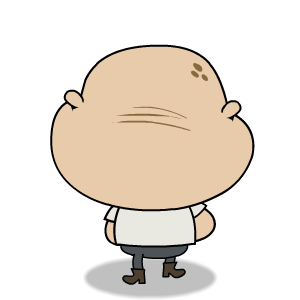
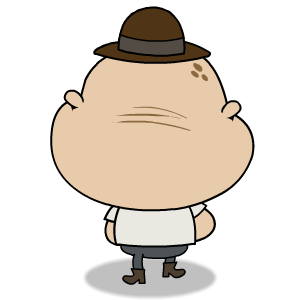
More guys, needs one more bug fix

Changed region(s): [[0.3, 0.0, 0.72, 0.24]]

diff --git a/teaorbit/static/scripts/network.js b/teaorbit/static/scripts/network.js
@@ -27,16 +27,16 @@ function Networking(game) {
             // update positions of existing players
             $.each(state.players, function(session, player) {
                 if(session != window.session_id) {
+                    var has_hat = 0 | (hat_owner == session);
                     if(session in that.game.other_dudes && that.game.other_dudes[session]) {
-                        var has_hat = (hat_owner == session);
-                        that.game.update_dude(that.game.other_dudes[session], player.position.x, player.position.y, player.movement.dx, player.movement.dy, has_hat);
+                        that.game.update_dude(that.game.other_dudes[session], player.position.x, player.position.y, player.movement.dx, player.movement.dy, has_hat, player.character);
                     } else {
-                        var min = 1;
-                        var max = 3;
-                        var random = Math.floor(Math.random() * (max - min + 1)) + min;
-                        that.game.other_dudes[session] = new dude(session, 0, 0, 0, 0, that.game.move_speed, 0, random);
+                        that.game.other_dudes[session] = new dude(session, 0, 0, 0, 0, that.game.move_speed, 0, player.character);
                         console.log('Added player ' + session);
                     }
+                }
+                else {
+                    that.game.update_dude(that.game.your_dude, player.position.x, player.position.y, player.movement.dx, player.movement.dy, has_hat, player.character);
                 }
             });
 

diff --git a/teaorbit/static/scripts/animations.js b/teaorbit/static/scripts/animations.js
@@ -148,6 +148,14 @@ function dude(player_id, xpos, ypos, dx, dy, move_speed, has_hat, guy) {
         this.has_hat = has_hat;
     }
 
+    this.set_guy = function(guy) {
+        this.guy = guy;
+    }
+
+    this.get_guy = function() {
+        return this.guy;
+    }
+
 /*
     talk = function( ctx, width, height, text ) {
         var x = xpos + dude_size + 5;
@@ -244,7 +252,7 @@ function gameCanvas(jq_elem, xpos, ypos, move_speed, max_x, max_y) {
         this.draw_background();
 
         // Update player
-        this.your_dude = this.update_dude(this.your_dude, this.xpos, this.ypos, this.dx, this.dy, this.your_dude.get_hat_status());
+        this.your_dude = this.update_dude(this.your_dude, this.xpos, this.ypos, this.dx, this.dy, this.your_dude.get_hat_status(), this.your_dude.get_guy());
 
         // Update and draw other dudes
         $.each(this.other_dudes, function(session_id, dude) {
@@ -307,10 +315,11 @@ function gameCanvas(jq_elem, xpos, ypos, move_speed, max_x, max_y) {
         }
     }
 
-    this.update_dude = function(dude, xpos, ypos, dx, dy, has_hat) {
+    this.update_dude = function(dude, xpos, ypos, dx, dy, has_hat, guy) {
         dude.set_position(xpos, ypos);
         dude.set_movement(dx, dy);
         dude.set_hat_status(has_hat);
+        dude.set_guy(guy);
 
         return dude;
     }

diff --git a/teaorbit/templates/wearahat/index.html b/teaorbit/templates/wearahat/index.html
@@ -13,16 +13,16 @@
         <script type="text/javascript" charset="utf-8" src="{{ STATIC_URL }}scripts/sockjs.min.js"></script>
         <script type="text/javascript" charset="utf-8" src="{{ STATIC_URL }}scripts/network.js"></script>
         <script type="text/javascript">
-            var canvas_jq, canvas, ctx, moveID, max_height, max_width, your_dude, other_dudes;
+            var canvas, networking;
 
             $(document).ready( function () {
                 $('#hat-game').css('min-height', Math.min($(window).innerHeight(), 1250));
                 $('#hat-game').css('min-width', Math.min($(window).innerWidth(), 1750));
                 
                 canvas = new gameCanvas($('#hat-game'), 0, 0, 10, 1000, 1000);
-                networking = new Networking(canvas);
 
                 $('#game_background').load( function() {
+                    networking = new Networking(canvas);
                     canvas.init();
                     canvas.start();
                 });

diff --git a/teaorbit/updates.py b/teaorbit/updates.py
@@ -30,7 +30,9 @@ class Connection(SockJSConnection):
             y = message['body']['y']
             dx = message['body']['dx']
             dy = message['body']['dy']
-            hat_owner = int(message['body']['hat_owner'])
+            hat_owner = 0
+            if message['body'].has_key('hat_owner'):
+                hat_owner = int(message['body']['hat_owner'])
 
             self.game_state.players[player].position.update(x, y)
             self.game_state.players[player].movement.update(dx, dy)

diff --git a/teaorbit/game.py b/teaorbit/game.py
@@ -32,7 +32,7 @@ class GameState(object):
         return {'players': players, 'hat': hat}
 
 class Player(object):
-    guy_types = ['guy1', 'guy2', 'guy3']
+    guy_types = [1, 2, 3]
     def __init__(self, session_id):
         self.id = session_id
         self.position = Position(0, 0)
